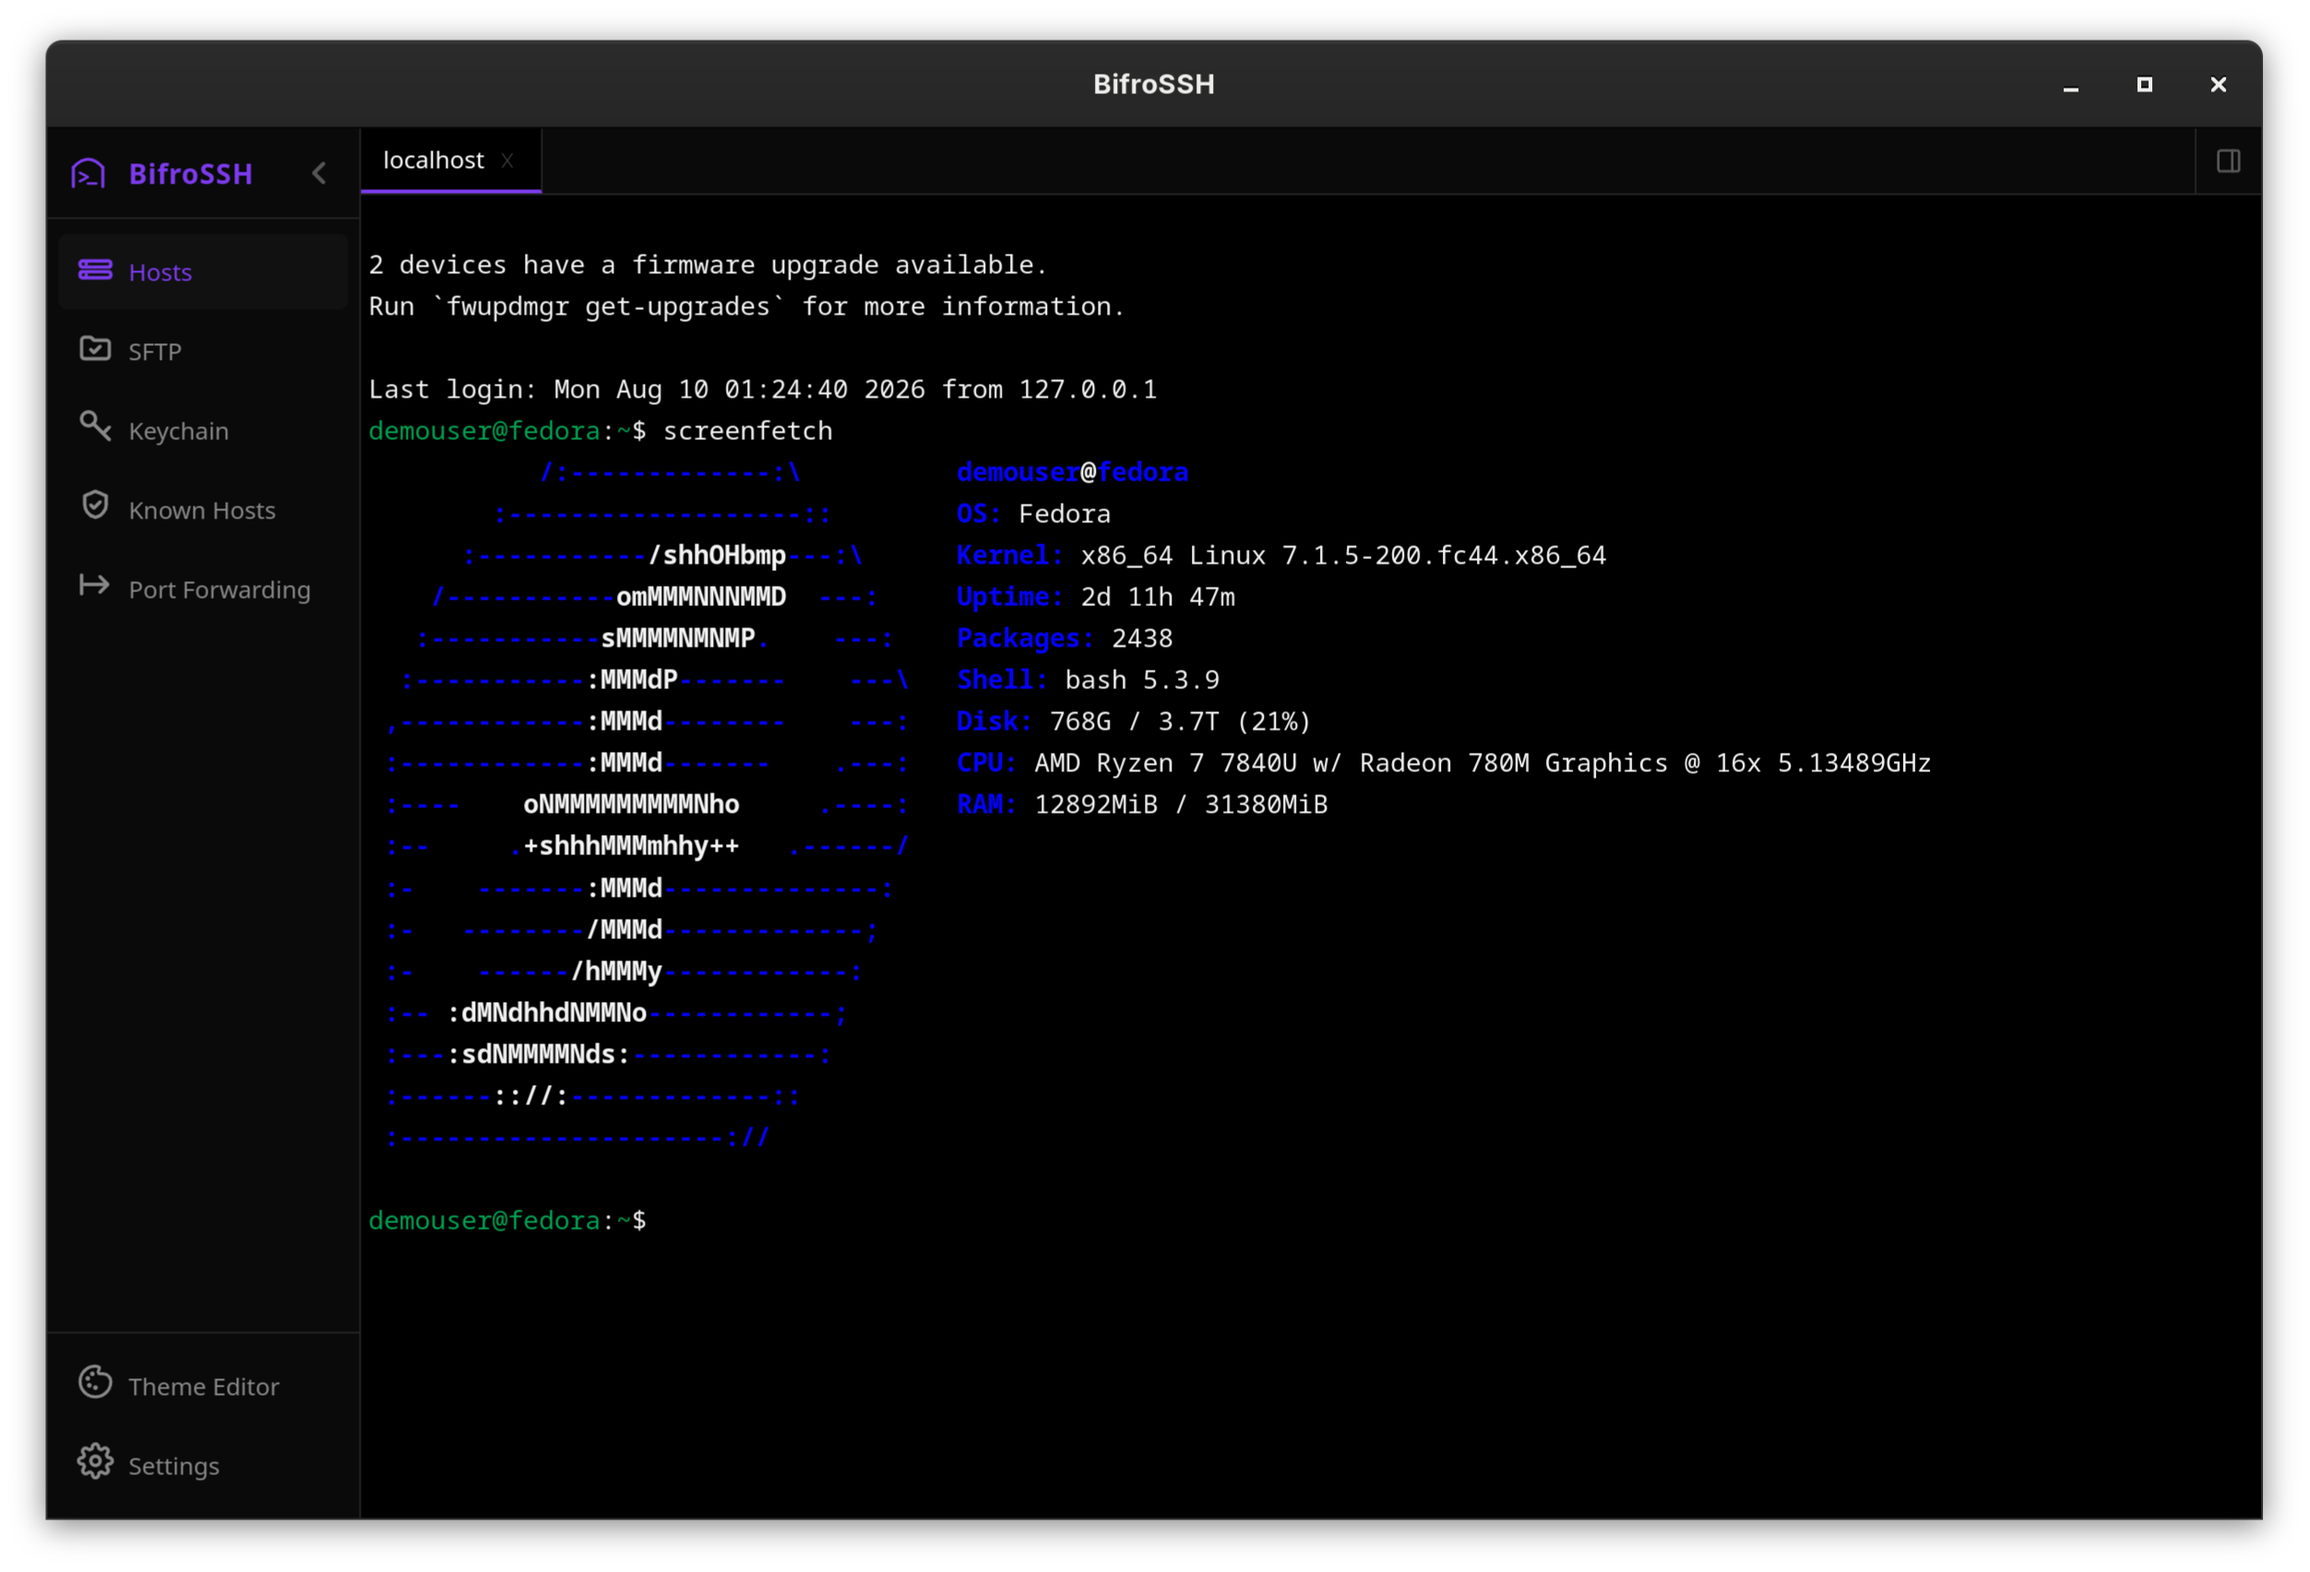
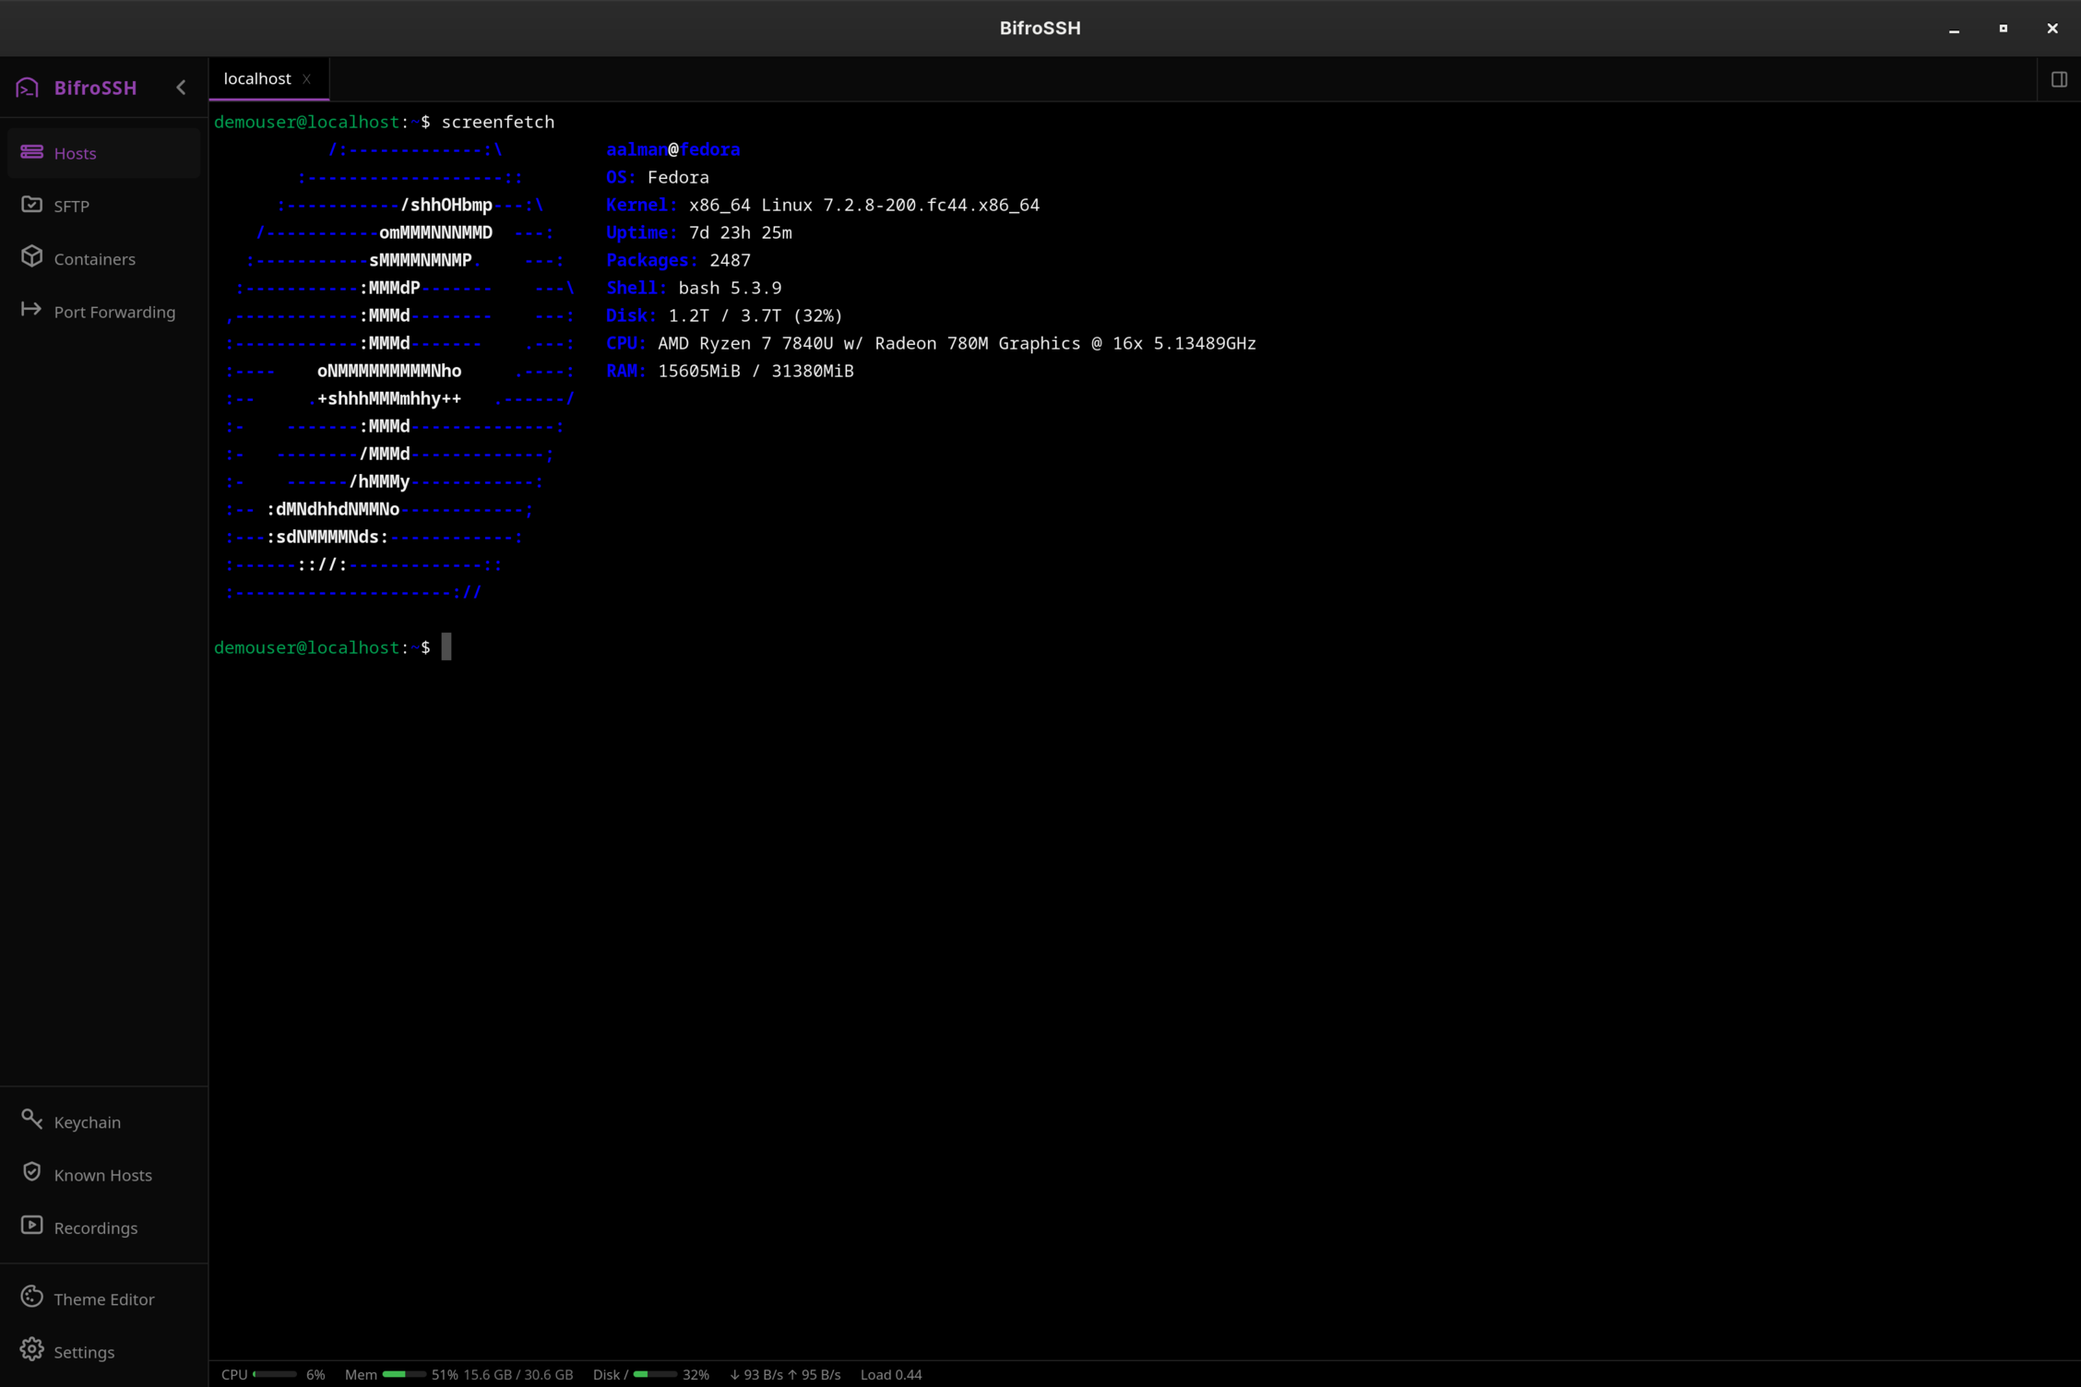
Retake the screenshots for 0.16.1, and show splits, the palette, containers and recordings
Every existing screenshot is retaken against the current interface: host
groups and tags, the monitor bar, the wider Known Hosts and Settings
pages. Split panes, the command palette, the containers panel and session
playback are new in the README; the AppStream listing also gains the tab
window.

Changed region(s): [[0.0, 0.0, 1.0, 1.0], [0.5895, 0.4688, 0.8378, 0.5], [0.1551, 0.75, 0.2793, 0.7812]]

diff --git a/README.md b/README.md
@@ -123,9 +123,13 @@ Windows 10 1803 or later. WebView2 is already present on Windows 11 and on curre
 
 **Tabs and windows.** Any number of sessions in tabs, each independent. Rename a tab, duplicate it, or drag it onto the terminal to show up to four side by side. A tab can move into a window of its own and come back; closing that window brings it back too. Mark tabs for broadcast and what you type goes to all of them at once. A tab's scrollback can be copied or saved as text. A local shell opens in a tab as well: your login shell on Linux, PowerShell on Windows, or whatever program you set. Tabs open at exit reopen and reconnect at the next launch, under the names you gave them, unless that is turned off.
 
+![Two sessions side by side](screenshots/SplitPanes.png)
+
 **Keyboard.** Ctrl+Tab and Ctrl+Shift+Tab (or Ctrl+PageDown and Ctrl+PageUp) move between tabs, Ctrl+1 to Ctrl+8 pick one and Ctrl+9 picks the last. Ctrl+Shift+T duplicates a tab, Ctrl+Shift+W closes it, Ctrl+Shift+N opens a local shell and Ctrl+Shift+B toggles broadcast. Ctrl+Shift+C and Ctrl+Shift+V copy and paste. Every shortcut can be rebound or turned off in Settings, which says when a key is already taken.
 
 **Command palette.** **Ctrl+K** searches open tabs, hosts, SFTP to any host, codeprints, every panel and settings page, and actions such as broadcast, recording, moving a tab to its own window and locking the vault.
+
+![The command palette](screenshots/CommandPalette.png)
 
 **SFTP.** Browse, upload, download, rename and delete, including whole folders in either direction or directly between two remote servers, with per-file progress. A folder can also be copied as one compressed stream rather than file by file; between two servers it never passes through this computer's disk. Two folders can be compared by size and SHA-256 before anything is copied. Change permissions and owner, bookmark folders, or open a remote file in its usual application and have every save uploaded back. A file already at the destination asks whether to overwrite, skip or keep both. A transfer that stops can be resumed from where it got to, and the resumed file is checked against the original afterwards; Settings can have every transfer checked that way, which needs `sha256sum` on the server. Files dragged in from the file manager upload (Linux only), and the lists work from the keyboard, with a filter that starts as you type.
 
@@ -145,7 +149,11 @@ Windows 10 1803 or later. WebView2 is already present on Windows 11 and on curre
 
 **Containers.** Pick a host to list its Docker and Podman containers, start, stop or restart them, and open a shell in one or follow its logs in a tab. With sudo, root's containers are listed too.
 
+![Containers on a host](screenshots/Containers.png)
+
 **Recording and logging.** Record a session as an asciicast and play it back in the app at 1×, 2× or 4× with a seek bar, or in any asciinema player. Or log a session's raw output to a file, from the tab's menu or for every session to a host.
+
+![Playing back a recorded session](screenshots/Recordings.png)
 
 **Codeprints.** Named commands you keep around, pasted into the prompt to edit or run outright, shared across every session. A codeprint can hold `{{name}}` or `{{name:default}}` placeholders, filled in each time it is used.
 
